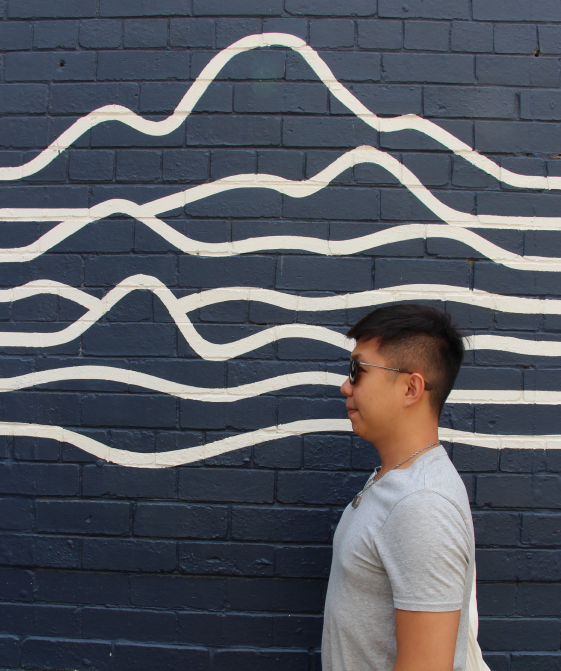
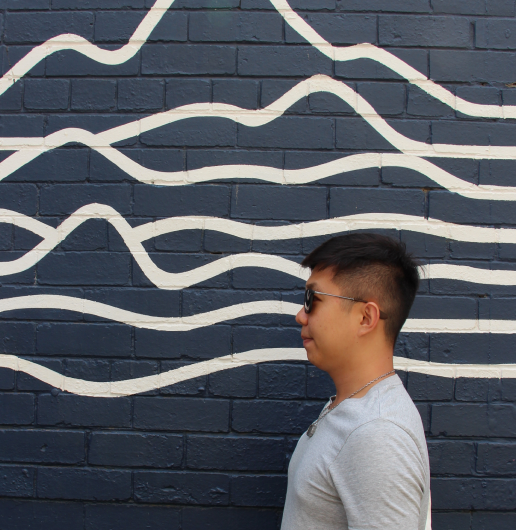
Fixing something on the front page, about page and topbar, fixing some text also

diff --git a/components/MainHeader.vue b/components/MainHeader.vue
@@ -8,7 +8,7 @@
         I'm Jesse Ting
       </div>
       <div class="description">
-        <div>a UX/UI designer</div>
+        <div>a UX designer</div>
         <br>
         <div>based in Brisbane</div>
         <br>
@@ -17,9 +17,6 @@
     </div>
     <div class="image">
       <img src="~assets/jesse_main.png">
-    </div>
-    <div class="button">
-      <ButtonDown />
     </div>
   </div>
 </template>
@@ -56,6 +53,9 @@
   justify-items: center;
   text-align: center;
   justify-content: space-between;
+
+  margin-top: 6em;
+  margin-bottom: 6em;
 }
 
 @media(min-width: 1100px) {
@@ -72,8 +72,7 @@
 }
 
 .image {
-  grid-area: image;
-  overflow: hidden;
+  align-self: center;
  }
 
 .text {
@@ -100,14 +99,12 @@
 }
 
 img {
-  width: 561px;
-  height: 671px;
-
   animation: 1.3s ease-in-out 0s 1 fadeIn;
 
-  overflow: hidden;
-  object-fit: cover;
-  max-width: 100%;
+  max-width: 516px;
+  max-height: 530px;
+  width: 100%;
+  object-fit: scale-down;
 }
 
 .text {
@@ -119,6 +116,7 @@ img {
   display: block;
   align-self: center;
   animation: 0.5s ease-in-out 0s 1 slideInFromLeft;
+  padding-right: 10px;
 }
 
 @media(max-width: 700px) {
@@ -133,24 +131,24 @@ img {
 }
 
 .description {
-  font-weight: bold;
+  font-weight: 600;
 }
 
 .description > div {
   padding-inline-end: 10px;
   padding-inline-start: 10px;
   display: inline-block;
-  background: linear-gradient(to top, transparent 30%, #0AE6B4 30% 65%, transparent 35%);
+  background: linear-gradient(to top, transparent 30%, #0AE6B4 30% 50%, transparent 50%);
   white-space: nowrap;
 }
 </style>
 
 <script>
-import ButtonDown from '~/components/ButtonDown.vue'
+// import ButtonDown from '~/components/ButtonDown.vue'
 
-export default {
-  components: {
-    ButtonDown
-  }
-}
+// export default {
+//   components: {
+//     ButtonDown
+//   }
+// }
 </script>

diff --git a/pages/flight-centre.vue b/pages/flight-centre.vue
@@ -24,7 +24,8 @@
               <img src="~assets/flight-centre/flight-centre-trips.png">
               <h3>Summary</h3>
               <div class="text">
-                The Flight Centre internal email layout needed some love and personality. The goal of this project was to create a series of email patterns that are reusable and flexible for changes on an Email marketing platform such as Mailchimp. This project aims to solve the problems for the email writers, Customer Support Managers in retail support team by design thinking approach.
+                The Flight Centre internal email layout needed some love and personality. The goal of this project was to create a series of reusable email patterns for an Email marketing platform such as MailChimp.  My mission was to do research,  find tools and apply best market practices to improve the workflow of Customer Support Managers.
+                The solution I came up with consisted of using a new email template editor, along with 3 email template variations, which could then be used by Customer Support Managers to compose emails that would later be exported into MailChimp.
               </div>
               <br>
               <br>

diff --git a/components/TopBar.vue b/components/TopBar.vue
@@ -10,7 +10,7 @@
       <nuxt-link to="/about" class="topbar-about nostyle">
         About
       </nuxt-link>
-      <nuxt-link to="/" class="topbar-about nostyle">
+      <nuxt-link to="/#projects" class="topbar-about nostyle">
         Projects
       </nuxt-link>
       <nuxt-link to="/" class="topbar-about nostyle">
@@ -44,9 +44,17 @@
     "name";
   }
 
+  .name {
+    display: block;
+  }
+
+  .navigation {
+    display: none !important;
+  }
+
   .navigation a {
     display: none;
-    grid-column-gap: 0;
+    grid-column-gap: 0em;
   }
 
   .name {
@@ -63,7 +71,7 @@
 .name {
   font-family: Montserrat;
   font-style: normal;
-  font-weight: bold;
+  font-weight: 600;
   font-size: 22px;
   line-height: 27px;
 
@@ -76,7 +84,7 @@
 
   font-family: Montserrat;
   font-style: normal;
-  font-weight: bold;
+  font-weight: 600;
   font-size: 22px;
   line-height: 27px;
 
@@ -89,10 +97,11 @@
   grid-area: navigation;
 
   justify-self: self-end;
+
+  grid-column-gap: 2em;
 }
 
 .navigation a {
-  padding-left: 1em;
   grid-column-gap: 2em;
   text-decoration: none;
   color: #1A3163;

diff --git a/pages/index.vue b/pages/index.vue
@@ -11,18 +11,10 @@
         <div class="padding-right" />
         <MainHeader />
       </div>
-      <div class="content">
+      <div id="projects" class="content">
         <div class="padding-left" />
         <div class="padding-right" />
         <Projects />
-      </div>
-      <div class="content">
-        <div class="empty" />
-      </div>
-      <div class="content">
-        <div class="padding-left" />
-        <div class="padding-right" />
-        <DesignChallenge />
       </div>
     </div>
     <Footer />
@@ -33,7 +25,6 @@
 import TopBar from '~/components/TopBar.vue'
 import MainHeader from '~/components/MainHeader.vue'
 import Projects from '~/components/Projects.vue'
-import DesignChallenge from '~/components/DesignChallenge.vue'
 import Footer from '~/components/Footer.vue'
 
 export default {
@@ -41,7 +32,6 @@ export default {
     TopBar,
     MainHeader,
     Projects,
-    DesignChallenge,
     Footer
   }
 }

diff --git a/components/ButtonUp.vue b/components/ButtonUp.vue
@@ -1,0 +1,30 @@
+<template>
+  <div class="button_circle">
+    <i class="las la-angle-up" />
+  </div>
+</template>
+
+<style scoped>
+.button_circle {
+  width: 50px;
+  height: 50px;
+
+  background-color: #607D8B;
+  box-shadow: 0px 4px 4px rgba(0, 0, 0, 0.25);
+  bottom: 0;
+
+  border-radius: 25px;
+
+  display: flex;
+  align-items: center;
+}
+
+i {
+  color: white;
+  font-weight: bold;
+  font-size: 32px;
+
+  margin-left: auto;
+  margin-right: auto;
+}
+</style>

diff --git a/pages/about.vue b/pages/about.vue
@@ -14,7 +14,7 @@
             <img src="~assets/about/jesse-sunglasses.png">
 
             <div class="greeting-text">
-              I’m <span class="name">Jesse Ting</span>, a UX/UI designer based in Brisbane Australia
+              I’m <span class="name">Jesse Ting</span>, a UX designer based in Brisbane Australia
             </div>
           </div>
           <div class="about-me">

diff --git a/components/Footer.vue b/components/Footer.vue
@@ -2,7 +2,7 @@
   <div class="footer">
     <div class="footer-center">
       <div class="letstalk">
-        Let’s talk about Design
+        Get in touch with me
       </div>
       <div>
         <a href="https://www.linkedin.com/in/jesse-ting-b2a383128/">
